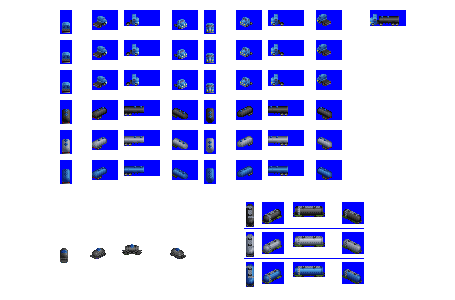
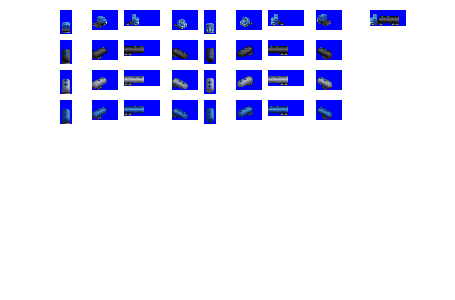
Change: tanker trucks no longer require cab spriterows to be duplicated

diff --git a/src/road_vehicle.py b/src/road_vehicle.py
@@ -620,7 +620,6 @@ class Tanker(RoadVehicle):
     """
     def __init__(self, **kwargs):
         super(Tanker, self).__init__(**kwargs)
-        self.template = 'vehicle_with_cargo_specific_liveries.pynml'
         self.autorefit = True
         self.class_refit_groups = ['liquids']
         # tankers are unrealistically autorefittable, and at no cost
@@ -632,6 +631,13 @@ class Tanker(RoadVehicle):
         self.label_refits_disallowed = global_constants.disallowed_refits_by_label['edible_liquids']
         self.default_cargo = 'OIL_'
         self.loading_speed_multiplier = 2
+        if self.always_use_same_spriterow:
+            self.template = 'vehicle_default.pynml'
+        else:
+            self.template = 'vehicle_with_cargo_specific_liveries.pynml'
+            # handle different kinds of trucks (single unit, tractor-trailer, waggon+drag), which causes variations in start row per unit (bit janky) :P
+            # offset = spriterow num in template, multiplier = ~number of preceding units in consist
+            self.spriterow_num = self.spriterow_adjust['offset'] + self.spriterow_adjust['multiplier'] * self.num_cargo_rows
 
 
 class EdiblesTanker(RoadVehicle):

diff --git a/src/vehicles/cloud_hill.py b/src/vehicles/cloud_hill.py
@@ -15,13 +15,14 @@ consist.add_unit(Tanker(consist = consist,
                         vehicle_length = 2,
                         semi_truck_shift_offset_jank = 2,
                         effects = ['EFFECT_SPRITE_DIESEL, -3, 1, 10'],
+                        always_use_same_spriterow = True,
                         spriterow_num = 0))
 
 consist.add_unit(Tanker(consist = consist,
                         weight = 10,
                         capacity = 40,
                         vehicle_length = 6,
-                        spriterow_num = 1))
+                        spriterow_adjust = {'multiplier': 0, 'offset': 1}))
 
 consist.add_model_variant(intro_date=0,
                        end_date=global_constants.max_game_date,

diff --git a/src/vehicles/greenscoe.py b/src/vehicles/greenscoe.py
@@ -15,13 +15,14 @@ consist.add_unit(Tanker(consist = consist,
                         vehicle_length = 2,
                         semi_truck_shift_offset_jank = 2,
                         effects = ['EFFECT_SPRITE_DIESEL, -3, 1, 10'],
+                        always_use_same_spriterow = True,
                         spriterow_num = 0))
 
 consist.add_unit(Tanker(consist = consist,
                         weight = 7,
                         capacity = 30,
                         vehicle_length = 5,
-                        spriterow_num = 1))
+                        spriterow_adjust = {'multiplier': 0, 'offset': 1}))
 
 consist.add_model_variant(intro_date=0,
                        end_date=global_constants.max_game_date,

diff --git a/src/vehicles/meriden.py b/src/vehicles/meriden.py
@@ -15,13 +15,14 @@ consist.add_unit(Tanker(consist = consist,
                         vehicle_length = 2,
                         semi_truck_shift_offset_jank = 2,
                         effects = ['EFFECT_SPRITE_DIESEL, -3, 1, 10'],
+                        always_use_same_spriterow = True,
                         spriterow_num = 0))
 
 consist.add_unit(Tanker(consist = consist,
                         weight = 8,
                         capacity = 40,
                         vehicle_length = 6,
-                        spriterow_num = 1))
+                        spriterow_adjust = {'multiplier': 0, 'offset': 1}))
 
 consist.add_model_variant(intro_date=0,
                        end_date=global_constants.max_game_date,
